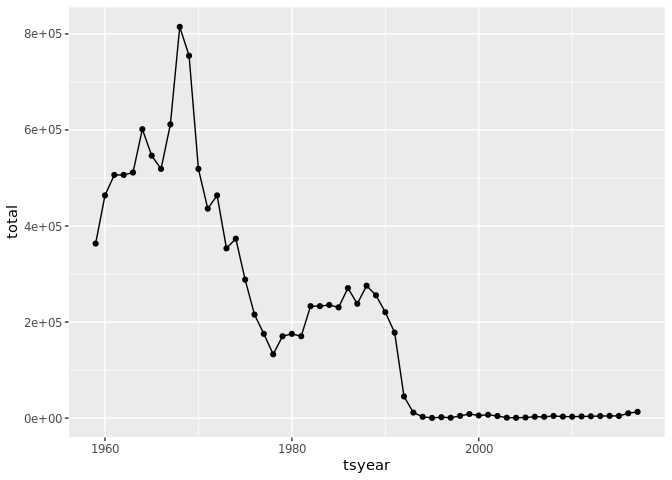
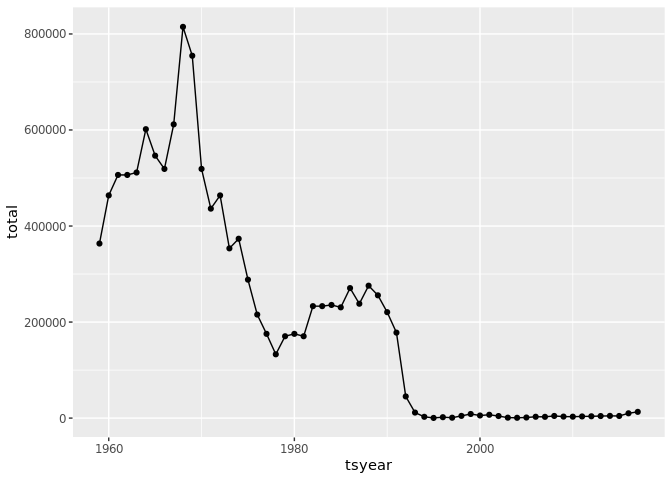
md files first commit for final submission JW

diff --git a/assignment/fish-assignment.md b/assignment/fish-assignment.md
@@ -27,6 +27,21 @@ download.file("https://zenodo.org/record/7814638/files/RAMLDB%20v4.61.zip?downlo
               "fish.zip")
 ```
 
+# Unit 2: Fisheries Collapse Module
+
+This module will focus on understanding and replicating fisheries stock
+assessment data and fisheries collapse.
+
+Instead of working with independent data.frames, we will be working with
+a large relational database which contains many different tables of
+different sizes and shapes, but that all all related to each other
+through a series of different ids.
+
+## The Database
+
+We will use data from the [RAM Legacy Stock Assessment
+Database](https://www.ramlegacy.org/database/)
+
 ``` r
 xlsx <- "Excel/RAMLDB v4.61 (assessment data only).xlsx"
 readxl::excel_sheets(xlsx)
@@ -45,6 +60,16 @@ readxl::excel_sheets(xlsx)
     ## [21] "timeseries_sources_views"     "timeseries_units_views"      
     ## [23] "timeseries_values_views"      "timeseries_years_views"      
     ## [25] "tsmetrics"
+
+# Exercise 1: Investigating the North-Atlantic Cod
+
+Now we are ready to dive into our data. First, We seek to replicate the
+following figure from the Millennium Ecosystem Assessment Project using
+the RAM data.
+
+![](http://espm-157.carlboettiger.info/img/cod.jpg)
+
+## placeholder
 
 ``` r
 ts1 <- read_xlsx(xlsx, sheet = "timeseries.1")
@@ -365,9 +390,10 @@ cod2 |>
 ![](fish-assignment_files/figure-gfm/unnamed-chunk-12-2.png)<!-- -->
 
 ``` r
+options(scipen = 999)
 cod_2J3KL <- cod |>
-  filter(stockid=="COD2J3KL") |>
-  filter(areaid== "Canada-DFO-2J3KL") |>
+  filter(stockid =="COD2J3KL") |>
+  filter(areaid == "Canada-DFO-2J3KL") |>
   inner_join(most_recent, by = "assessid") 
 cod2J3KL_post1957 <- cod_2J3KL |>
   group_by(tsyear) |>
@@ -379,8 +405,8 @@ cod2J3KL_post1957 |> ggplot(aes(tsyear,total)) + geom_line() + geom_point()
 
 ``` r
 cod2J3KL_pre1957 <- cod2 |>
-  filter(stockid=="COD2J3KL") |>
-  filter(areaid== "Canada-DFO-2J3KL") |>
+  filter(stockid =="COD2J3KL") |>
+  filter(areaid == "Canada-DFO-2J3KL") |>
   inner_join(least_recent, by = "assessid") |> 
   group_by(tsyear) |>
   summarise(total = sum(tsvalue, na.rm = TRUE)) |>
@@ -393,50 +419,10 @@ cod2J3KL_pre1957 |> ggplot(aes(tsyear,total)) + geom_line() + geom_point()
 ``` r
 cod2J3KL_ALL <- rbind(cod2J3KL_post1957, cod2J3KL_pre1957)
 ggplot(cod2J3KL_ALL, aes(tsyear, total, group = 1)) +
-  geom_line() + geom_point()
+  geom_line() + geom_point()+ggtitle("Fish landings in tons")
 ```
 
 ![](fish-assignment_files/figure-gfm/unnamed-chunk-13-3.png)<!-- -->
-
-``` r
-cod_2J3KL_new <- cod_2J3KL |>
-  select(tsyear, tsvalue,stockid, areaid) |>
-  mutate(max_harvest = max(tsvalue),
-         collapsed= tsvalue/max_harvest*100) |>
-  filter(tsyear > 1968)
-
-cod_2J3KL_new |>
-  ggplot(aes(tsyear,collapsed)) + geom_point() +geom_line()
-```
-
-![](fish-assignment_files/figure-gfm/unnamed-chunk-14-1.png)<!-- -->
-
-\`\`\`
-
-# Unit 2: Fisheries Collapse Module
-
-This module will focus on understanding and replicating fisheries stock
-assessment data and fisheries collapse.
-
-Instead of working with independent data.frames, we will be working with
-a large relational database which contains many different tables of
-different sizes and shapes, but that all all related to each other
-through a series of different ids.
-
-## The Database
-
-We will use data from the [RAM Legacy Stock Assessment
-Database](https://www.ramlegacy.org/database/)
-
-# Exercise 1: Investigating the North-Atlantic Cod
-
-Now we are ready to dive into our data. First, We seek to replicate the
-following figure from the Millennium Ecosystem Assessment Project using
-the RAM data.
-
-![](http://espm-157.carlboettiger.info/img/cod.jpg)
-
-## placeholder
 
 ------------------------------------------------------------------------
 
@@ -448,3 +434,129 @@ We seek to replicate the temporal trend in stock declines shown in [Worm
 et al 2006](http://doi.org/10.1126/science.1132294):
 
 ![](http://espm-157.carlboettiger.info/img/worm2006.jpg)
+
+``` r
+fish <- cod_2J3KL |>
+  select(tsyear, tsvalue, stockid, areaid) |>
+  mutate(collapsed = tsvalue < 0.1 * max(tsvalue, na.rm = TRUE))
+
+fish |>
+  ggplot(aes(tsyear, tsvalue, col = collapsed)) + geom_point() 
+```
+
+![](fish-assignment_files/figure-gfm/unnamed-chunk-14-1.png)<!-- -->
+
+``` r
+fish
+```
+
+    ## # A tibble: 59 × 5
+    ##    tsyear tsvalue stockid  areaid           collapsed
+    ##     <dbl>   <dbl> <chr>    <chr>            <lgl>    
+    ##  1   1959 363510. COD2J3KL Canada-DFO-2J3KL FALSE    
+    ##  2   1960 463788. COD2J3KL Canada-DFO-2J3KL FALSE    
+    ##  3   1961 506407. COD2J3KL Canada-DFO-2J3KL FALSE    
+    ##  4   1962 506407. COD2J3KL Canada-DFO-2J3KL FALSE    
+    ##  5   1963 511421. COD2J3KL Canada-DFO-2J3KL FALSE    
+    ##  6   1964 601671. COD2J3KL Canada-DFO-2J3KL FALSE    
+    ##  7   1965 546518. COD2J3KL Canada-DFO-2J3KL FALSE    
+    ##  8   1966 518942. COD2J3KL Canada-DFO-2J3KL FALSE    
+    ##  9   1967 611699. COD2J3KL Canada-DFO-2J3KL FALSE    
+    ## 10   1968 814763. COD2J3KL Canada-DFO-2J3KL FALSE    
+    ## # ℹ 49 more rows
+
+``` r
+catch <- ts %>%
+  filter(tsid == "TCbest-MT") |>
+  group_by(tsyear, scientificname) |>
+  summarise(total_catch = sum(tsvalue, na.rm = TRUE)) |>
+  group_by(scientificname) |>
+  mutate(current_tot = cummax(total_catch), 
+         is_collapse = total_catch < 0.1 *current_tot,
+         ever_collapse = cumsum(is_collapse) > 0)
+```
+
+    ## `summarise()` has grouped output by 'tsyear'. You can override using the
+    ## `.groups` argument.
+
+``` r
+catch
+```
+
+    ## # A tibble: 21,248 × 6
+    ##    tsyear scientificname       total_catch current_tot is_collapse ever_collapse
+    ##     <dbl> <chr>                      <dbl>       <dbl> <lgl>       <lgl>        
+    ##  1   1800 Hippoglossus hippog…           0           0 FALSE       FALSE        
+    ##  2   1801 Hippoglossus hippog…           0           0 FALSE       FALSE        
+    ##  3   1802 Hippoglossus hippog…           0           0 FALSE       FALSE        
+    ##  4   1803 Hippoglossus hippog…           0           0 FALSE       FALSE        
+    ##  5   1804 Hippoglossus hippog…           0           0 FALSE       FALSE        
+    ##  6   1805 Hippoglossus hippog…           0           0 FALSE       FALSE        
+    ##  7   1806 Hippoglossus hippog…           0           0 FALSE       FALSE        
+    ##  8   1807 Hippoglossus hippog…           0           0 FALSE       FALSE        
+    ##  9   1808 Hippoglossus hippog…           0           0 FALSE       FALSE        
+    ## 10   1809 Hippoglossus hippog…           0           0 FALSE       FALSE        
+    ## # ℹ 21,238 more rows
+
+``` r
+years <- 1950:2003
+
+n <- nrow(catch |> 
+            group_by(scientificname, tsyear) |>
+            filter(tsyear %in% years) |>
+            group_by(scientificname)|>
+            count() |>
+            filter(n == length(years))
+            )
+```
+
+``` r
+catch_prop <- catch |>
+  filter(tsyear %in% years) |>
+  group_by(tsyear)|>
+  summarise(collapse = sum(is_collapse),
+            ever_collapsed = sum(ever_collapse),
+            .groups = 'drop')|>
+  group_by(tsyear)|>
+  mutate(collapsed_taxa = 100.0 * collapse / n)|>
+  ungroup()|>
+  mutate(collapsed_taxa_cum = 100.0 * ever_collapsed / n) |>
+  select(tsyear, collapsed_taxa, collapsed_taxa_cum)
+
+catch_graph <- catch_prop |>
+  pivot_longer(cols =
+                 collapsed_taxa:collapsed_taxa_cum, names_to = "category", values_to = "count")
+
+catch_graph
+```
+
+    ## # A tibble: 108 × 3
+    ##    tsyear category           count
+    ##     <dbl> <chr>              <dbl>
+    ##  1   1950 collapsed_taxa      1.69
+    ##  2   1950 collapsed_taxa_cum 16.1 
+    ##  3   1951 collapsed_taxa      2.54
+    ##  4   1951 collapsed_taxa_cum 16.9 
+    ##  5   1952 collapsed_taxa      1.69
+    ##  6   1952 collapsed_taxa_cum 17.8 
+    ##  7   1953 collapsed_taxa      4.24
+    ##  8   1953 collapsed_taxa_cum 19.5 
+    ##  9   1954 collapsed_taxa      2.54
+    ## 10   1954 collapsed_taxa_cum 19.5 
+    ## # ℹ 98 more rows
+
+``` r
+ggplot(data = catch_graph,aes(x=tsyear, y=count,shape= category))+
+  geom_smooth(se = FALSE, col="black",linewidth = 0.5)+
+  geom_point()+
+  scale_y_reverse()+
+  labs(y = "Collapsed taxt (%)",
+       x = "year")+
+  ggtitle("Stock Collapses")
+```
+
+    ## `geom_smooth()` using method = 'loess' and formula = 'y ~ x'
+
+![](fish-assignment_files/figure-gfm/unnamed-chunk-18-1.png)<!-- -->
+
+\`\`\`
